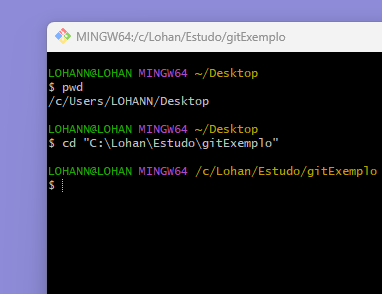
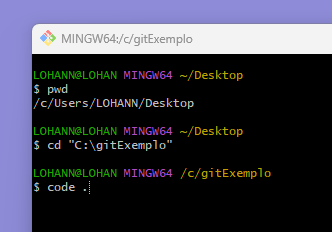
improving the structure of the tutorial

Changed region(s): [[0.0904, 0.0603, 1.0, 1.0]]

diff --git a/readme.md b/readme.md
@@ -23,7 +23,11 @@ Sendo assim, já criamos o repositório remoto no servidor do GitHub, basta cone
 ![link do repositório](imgs/RemotePartGrifado.png)
 
 O link grifado em vermelho, é o URL do repositório Git remoto no GitHub, que é usada para fazermos a conexão entre o local e remoto, sendo super importante.</br>
-E iremos utilizar os comandos que foram contornados em verde, para conluirmos a conexão e envio de arquivos.</br>Vamos agora, para a área de trabalho, para termos um ambiente visualmente limpo para iniciarmos.
+E iremos utilizar os comandos que foram contornados em verde, para concluirmos a conexão e envio de arquivos.
+
+## Escolhendo o diretório
+
+Vamos agora, para a área de trabalho, para termos um ambiente visualmente limpo para iniciarmos.
 
 ![link do repositório](imgs/openingGitBashCommandLine.png)
 
@@ -33,40 +37,85 @@ E iremos utilizar os comandos que foram contornados em verde, para conluirmos a 
 
 * Após decidir o diretório, basta copiar o caminho e colá-lo no Git Bash, com o comando:
 ```bash
-cd "C:\Lohan\Estudo\gitExemplo"
+cd "C:\gitExemplo"
 ```
 
 ![link do repositório](imgs/changingDirectoryBash.png)
 
 > `pwd` nos mostra em qual caminho nos encontramos no momento
 
-Note que o meu caminho será C:\Lohan\Estudo\gitExemplo, basta substituir pelo seu!
+> `code .` abre o diretório em que estamos no Visual Studio Code
 
+Note que o meu caminho será C:\gitExemplo, basta substituir pelo seu!
 
+## Iniciando repositório git
 
-<!-- * Dê um `git init`, para assim, inicializarmos um repositório vazio. O interessante é que se, no _Explorador de Arquivos_ clicarmos na opção "Vizualizar > Itens Ocultos". Poderemos ver que uma pasta oculta foi adicionada, com nome: <b>.git</b>
-> _PS: Ela será responsável pela conexão, não a modifique._
+* De volta ao console do Bash, iremos dividir a tela com o Explorador de Arquivos, ambos programas no mesmo caminho, para visualizarmos o que irá acontecer. 
 
-* Com o comando
-```
+![error not a git repository](imgs/errorNotaGitRepository.png)
+
+> No Explorador de Arquivos, clique na opção "Vizualizar > Itens Ocultos"
+
+No Bash, dê um:
+
+```bash
 git status
 ```
-Poderemos ver a situação atual da configuração, nesse momento, irá aparecer os arquivos filhos presentes na pasta, com a situação: "Untracked" ou 'Não Rastreado', pois ainda não os adicionamos.
 
-* Iremos fazer esse passo, com o comando: 
+Com esse comando, recebemos o feedback do status geral do repositório, informações como: status de arquivos adicionados, branch atual etc.</br>E podemos ver na resposta grifada em amarelo, que o diretório ainda não é um repositório git.</br>Agora, iremos criar de fato o repositório, com o comando:
+
+```bash
+git init
 ```
+
+Para assim, inicializarmos um repositório vazio.
+
+![git init](imgs/gitInit.png)
+
+* O interessante é que após esse comando, poderemos ver grifada em amarelo, que uma pasta oculta foi adicionada, com nome: <b>.git</b>
+> _PS: Ela será responsável pela conexão, não a modifique._
+
+## Criando os primeiros arquivos
+
+Iremos agora, clicar em _New File..._ e escolher um nome para o arquivo e o tipo do arquivo, que no caso, será _.md_ 
+
+![creating new file vs code](imgs/givingAnameToTheNewFile.png)
+
+O nome que irei escolher será o padrão para esse tipo de arquivo, _README.md_.</br>Agora, iremos colocar um título à esse MarkDown (md):
+
+Perceba que está aparecendo a letra em verde _U_, ela significa que o arquivo se encontra _Untracked_ ou "Não Rastreado", pois ainda não o adicionamos.
+
+![adding content](imgs/addingFirstContentToTheFile.png)
+
+* Para isso, iremos utilizar o seguinte comando: 
+
+```bash
 git add filename
 ```
+
+> O _filename_ no caso, é _README.md_, basta substituir.
+
+---
+### Dicas:
+
+
 Caso haja mais de um arquivo, e você queira adicionar todos, use o comando:
-```
+
+```bash
 git add .
 ```
+
 Caso tenha vários arquivos mas você queira adicionar somente algum deles, insira o nome dos respectivos arquivos um por um, separados por espaço, até chegar ao último arquivo.
-```
+
+```bash
 git add filenameone filenametwo filenamethree
 ```
 
-* Após isso, os arquivos adicionados entram em um modo de _"standing"_, sendo similar à uma sala de espera, apenas aguardando ser chamado, veremos o responsável por essa ação é o `git commit -m "here goes the title of your commit"`, sendo assim salva as alterações *localmente*, o _"-m"_ serve para adicionarmos um título/descricção do que está sendo feito e(ou) alterado.
+---
+
+* Após isso, os arquivos adicionados entram em um modo de _"standing"_, sendo similar à uma sala de espera, apenas aguardando serem chamados para o _commit_.
+
+<!-- responsável por essa ação é o `git commit -m "here goes the title of your commit"`, sendo assim salva as alterações *localmente*, o _"-m"_ serve para adicionarmos um título/descricção do que está sendo feito e(ou) alterado.
 
 *  Agora iremos nos atentar à nomenclatura do repositório. Podemos perceber no final do caminho de arquivos, o termo em parênteses "(master)", isso significa que, o ramo principal do projeto ou _branch_, está nomeada como 'master', como padrão, mas isso vem sendo mudado por X questões que você pode posteriormente se aprofundar caso queira. Portanto, usaremos o comando `git branch -M "main"`
 
@@ -90,7 +139,12 @@ Sendo assim, podemos avançar a próxima etapa.
 
 * Agora, basta fazermos o envio de fato, utilizando `git push -u origin main`. O _'-u'_ siginifica _upstream_, indica que, futuras mudanças necessitaram apenas do _git push_ para enviar as alterações locais para o repositório remoto.
 
-Com isso, temos o primeiro commit aplicado com **sucesso!!** -->
+Com isso, temos o primeiro commit aplicado com **sucesso!!**
+
+---
+---
+---
+-->
 
 ## - Modificando e Atualizando
 Iremos agora nos aprofundar nas técnicas de alteração de código. O estágio em que passamos mais tempo...
